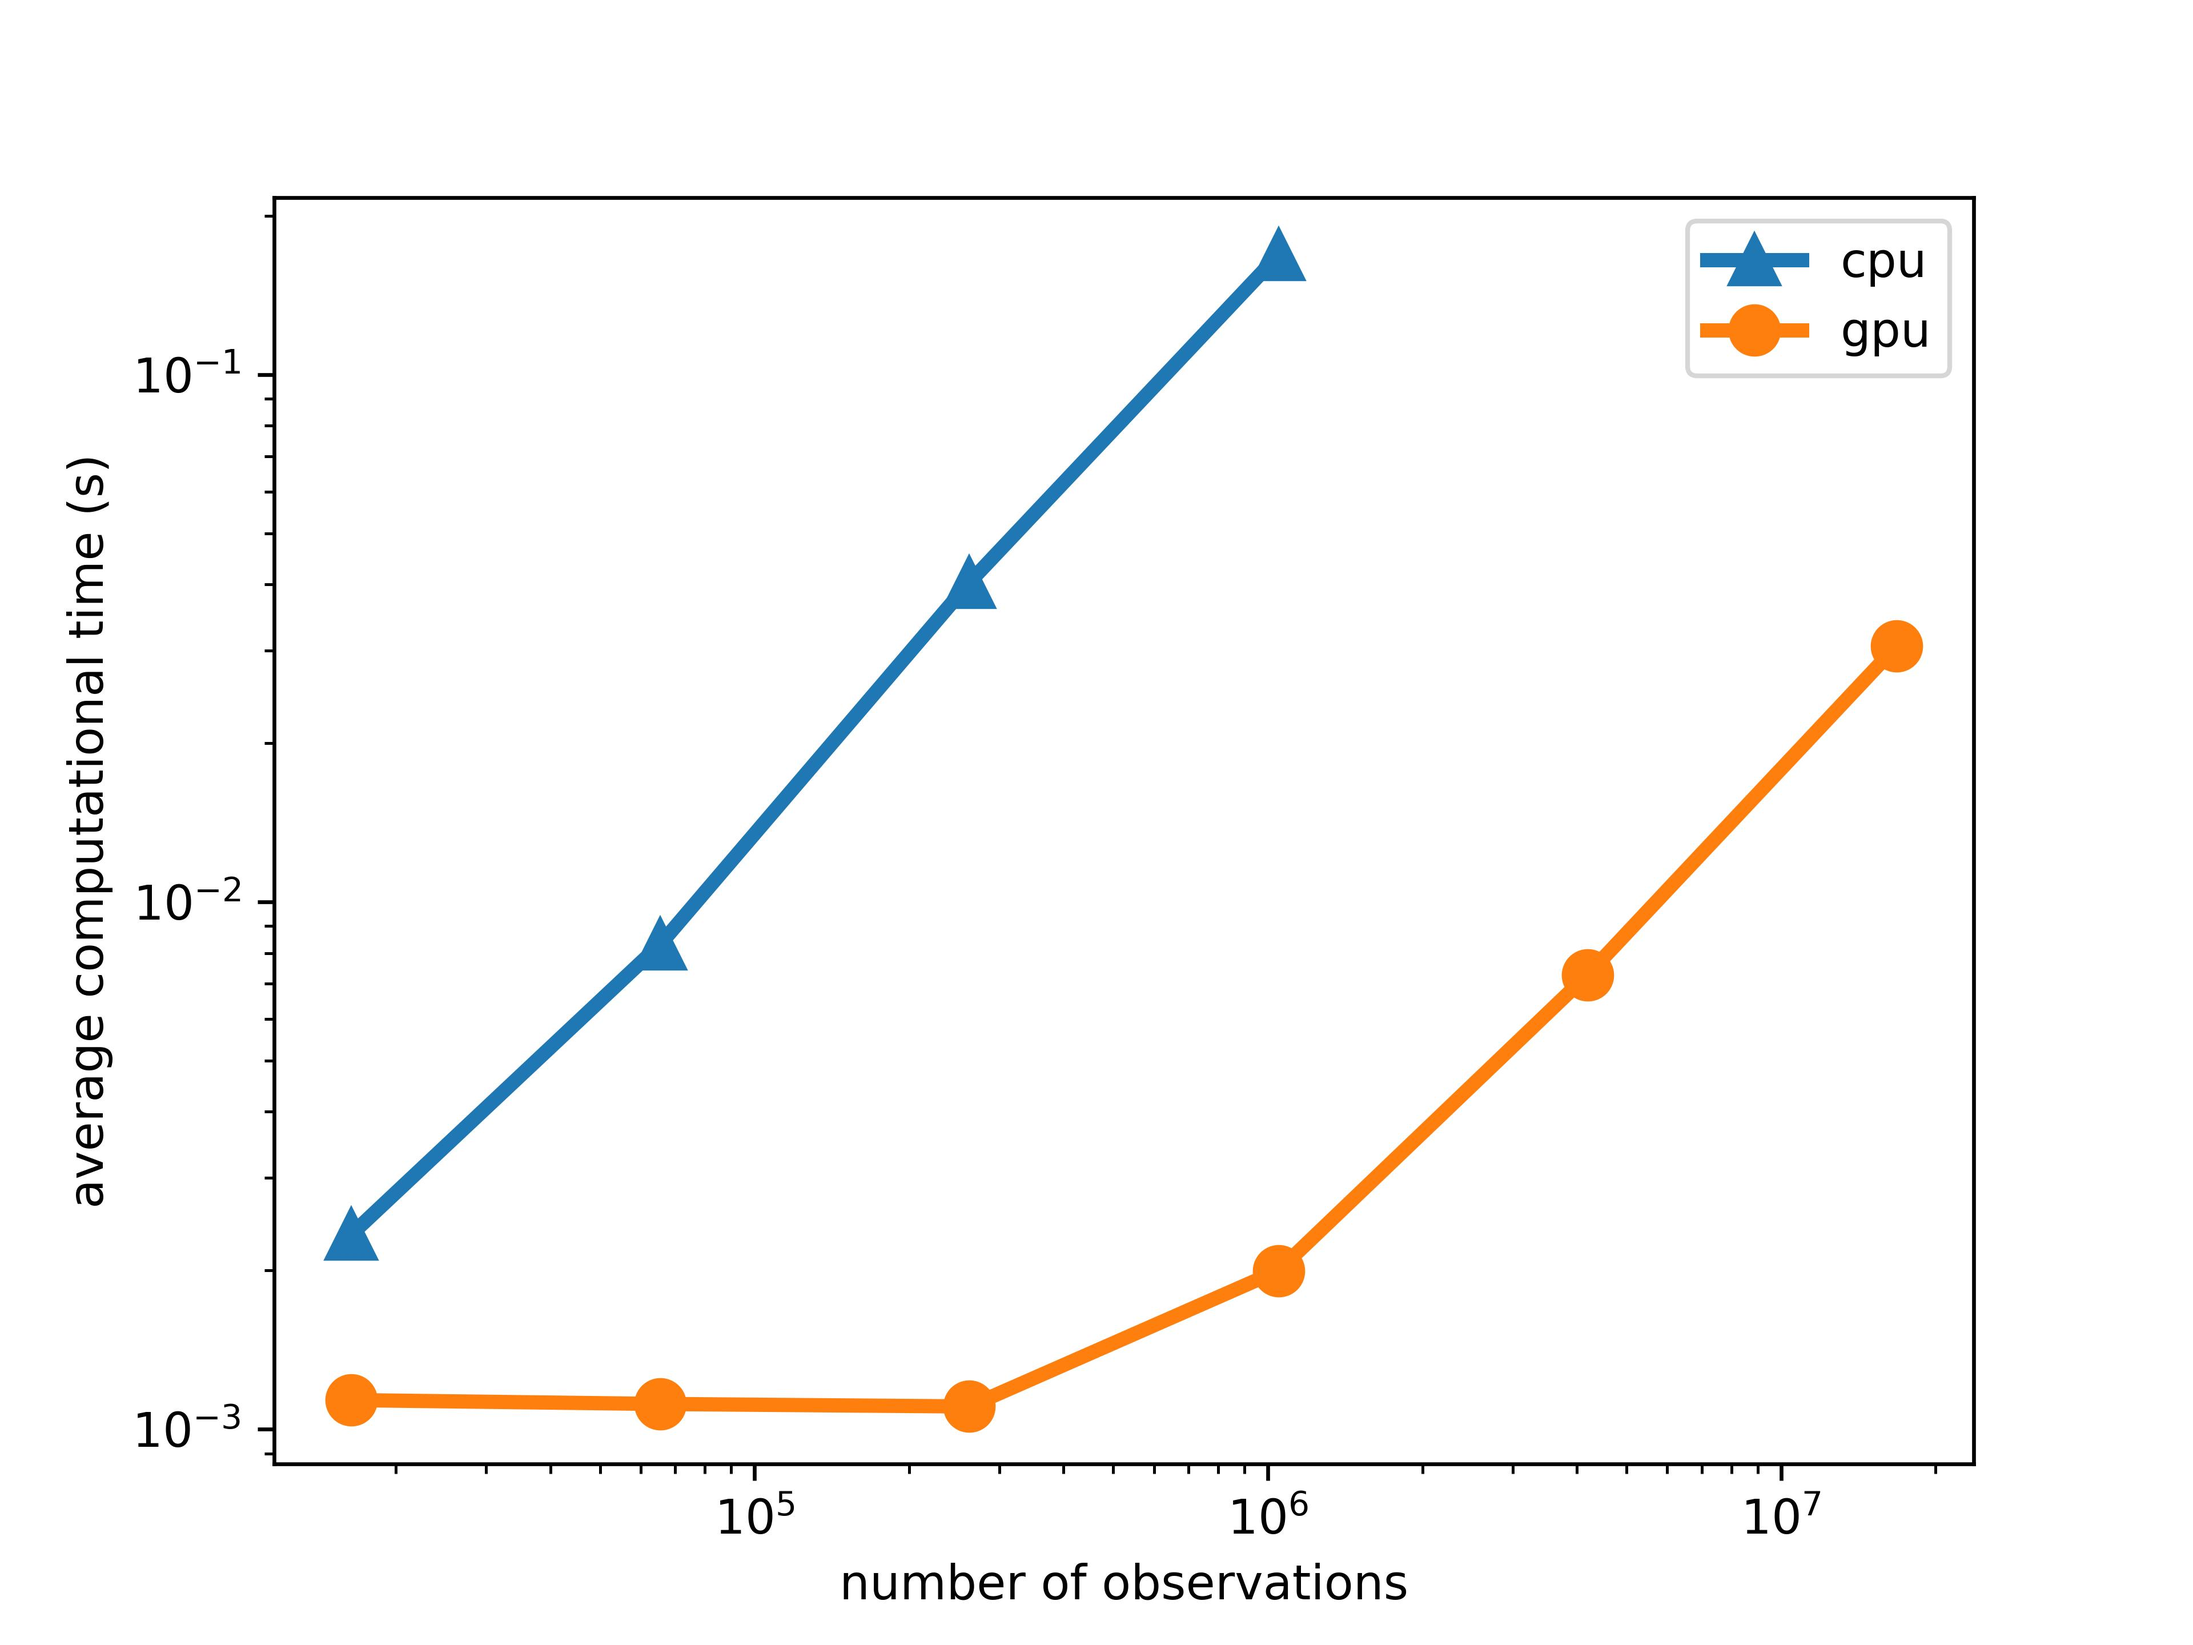
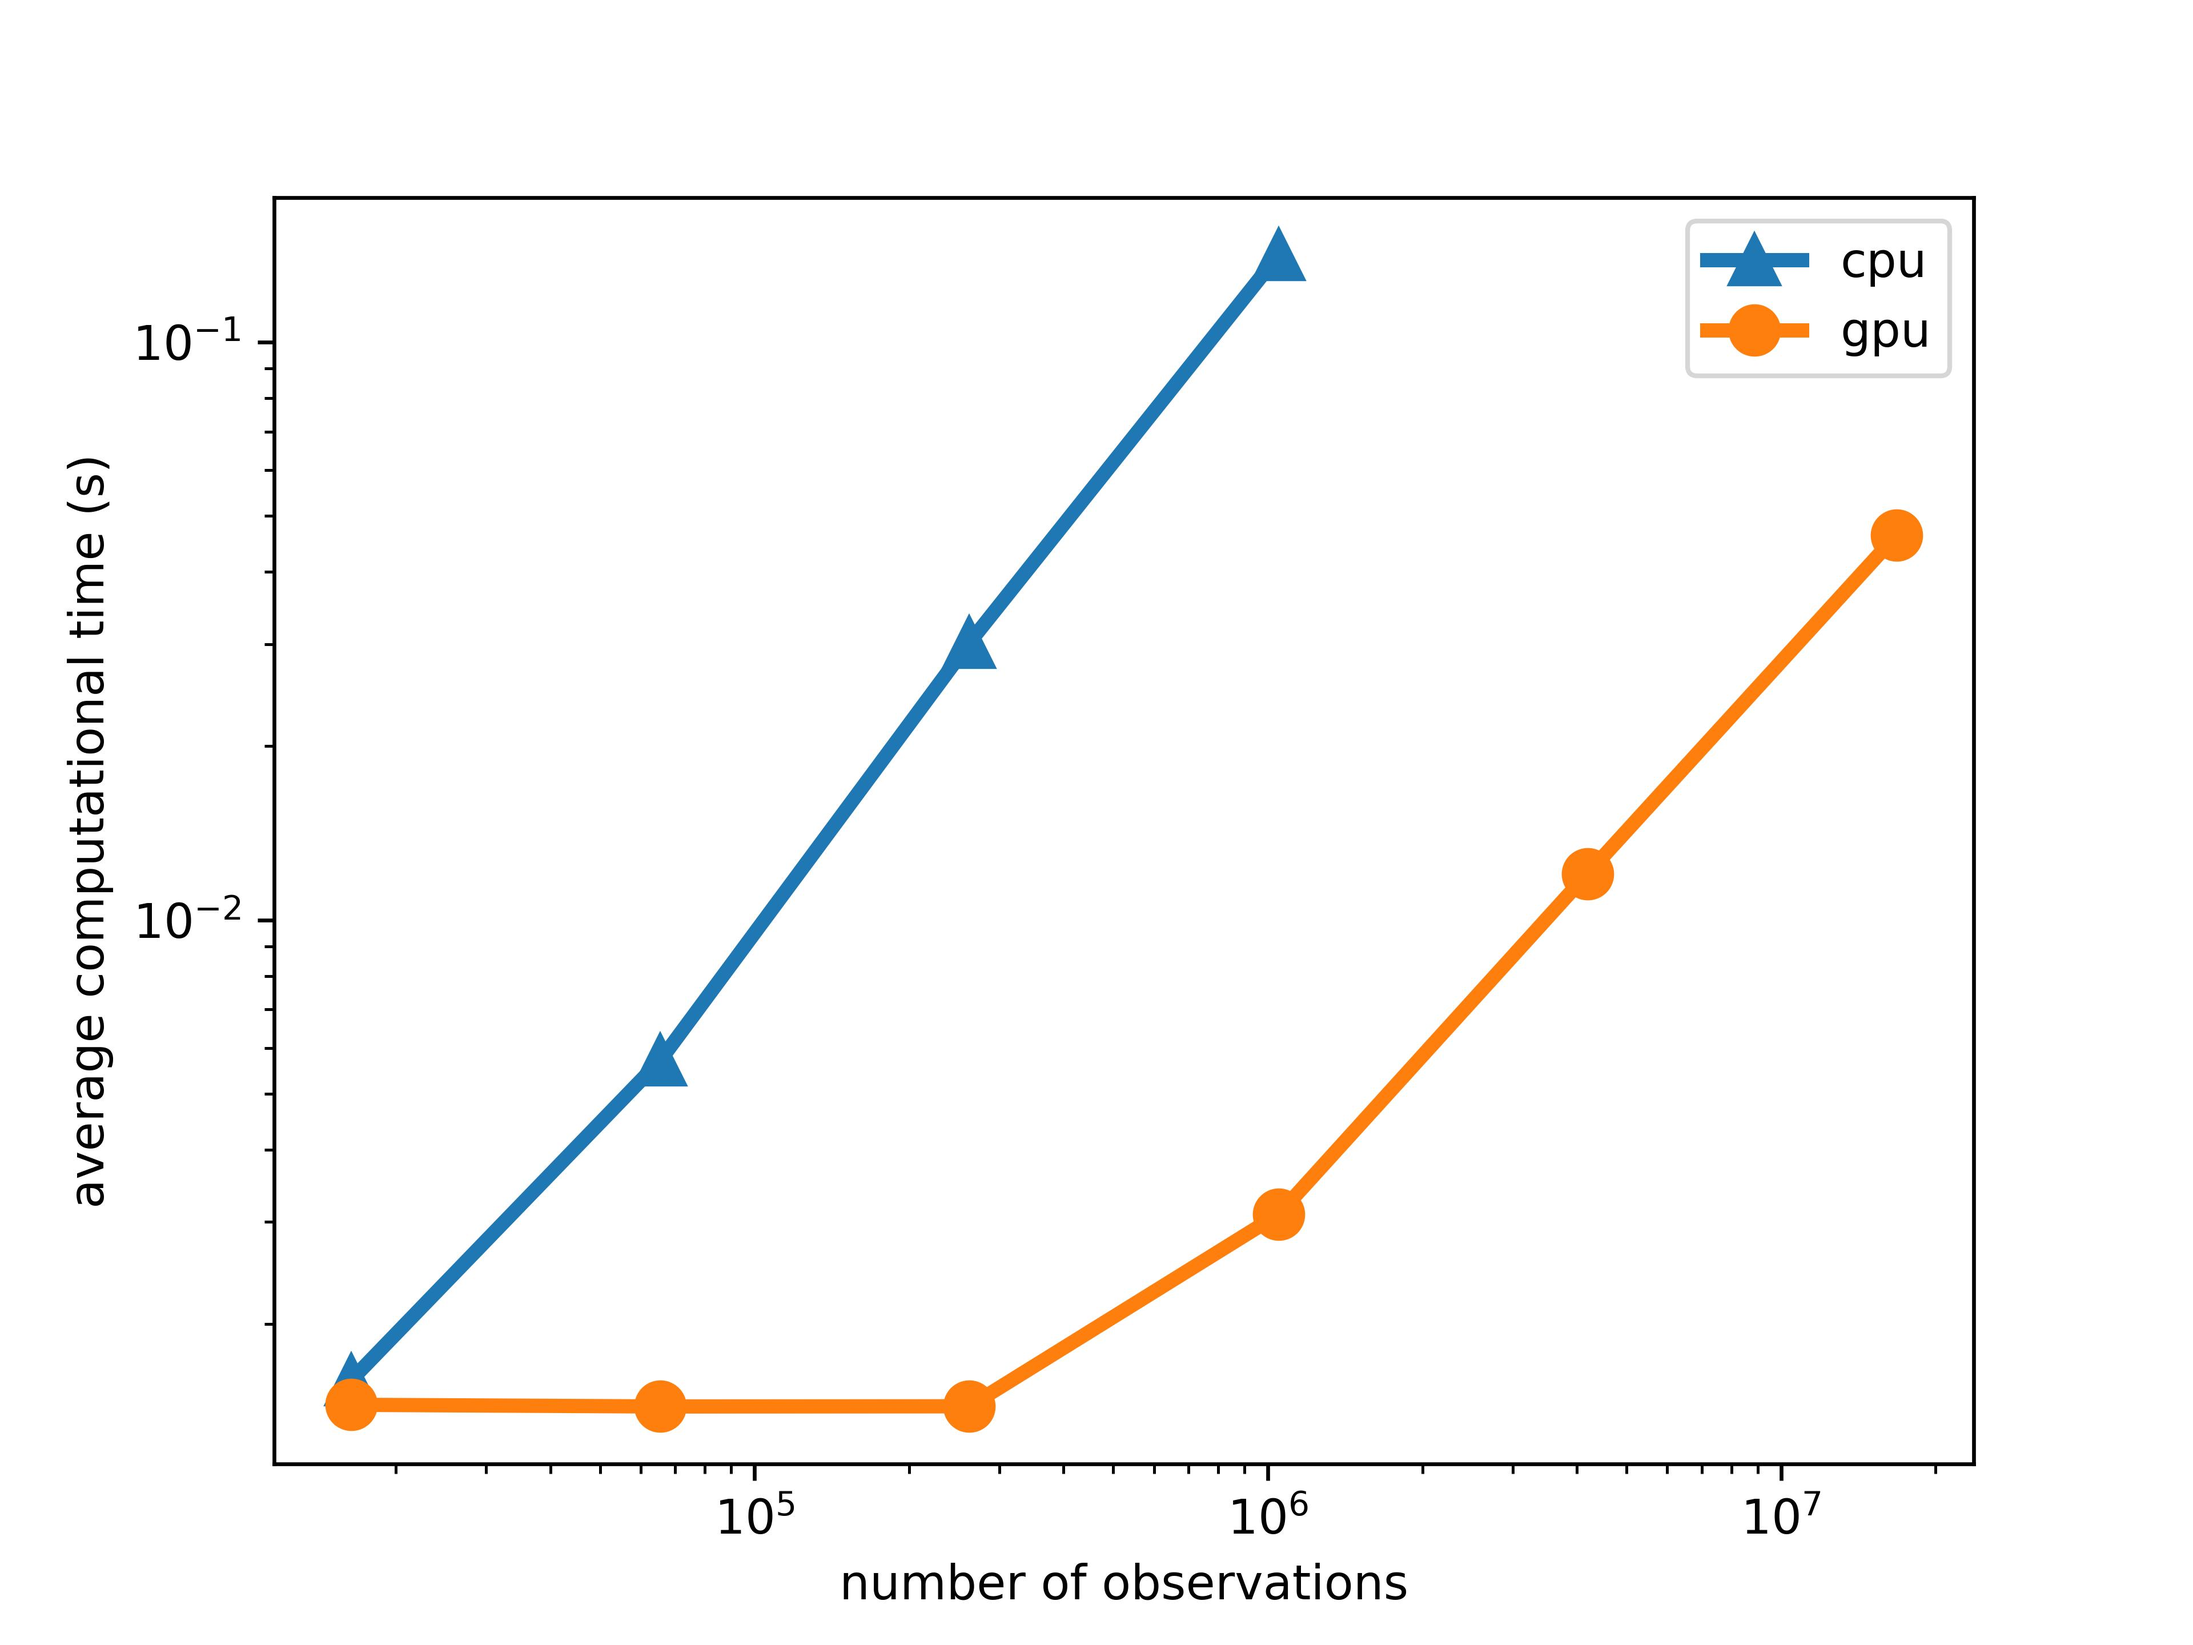
update speedup claim in paper and cpu-gpu times figure

diff --git a/paper/paper.md b/paper/paper.md
@@ -97,8 +97,9 @@ The code base also includes tapering, the use of which can further
  alleviate boundary effects [@dahlhaus_edge_1987]. Finally, the user can switch between several backends,
 Numpy, Cupy and PyTorch. This allows to further benefit from computational
 gains via GPU implementations of the Fast Fourier Transform.
-This is shown in \autoref{fig:times} where we observed a $\times 100$
-speed-up with a GPU versus a CPU.
+In practice, we observe computational GPU-versus-CPU speed-ups of order $\times 10$ up
+to order $\times 100$ as reported in \autoref{fig:times} (Nvidia Tesla V100 16GiB,
+numpy 1.26.4, cupy 13.4.0).
 
 ![A simulated sample from an exponential covariance kernel observed on a domain
 with the shape of metropolitan France (sans Corsica) (a),
@@ -153,7 +154,7 @@ including example notebooks is available, and issues can be raised on
 via [mybinder.org](https://mybinder.org/v2/gh/arthurBarthe/debiased-spatial-whittle/master).
 
 # Acknowledgements
-This research utilised Queen Mary's Apocrita HPC facility, supported by QMUL Research-IT. doi:10.5281/zenodo.438045.
+This research utilised Queen Mary University of London's Apocrita HPC facility, supported by QMUL Research-IT. doi:10.5281/zenodo.438045.
 In particular, this research made use of the OnDemand portal [@Hudak2018].
 
 
